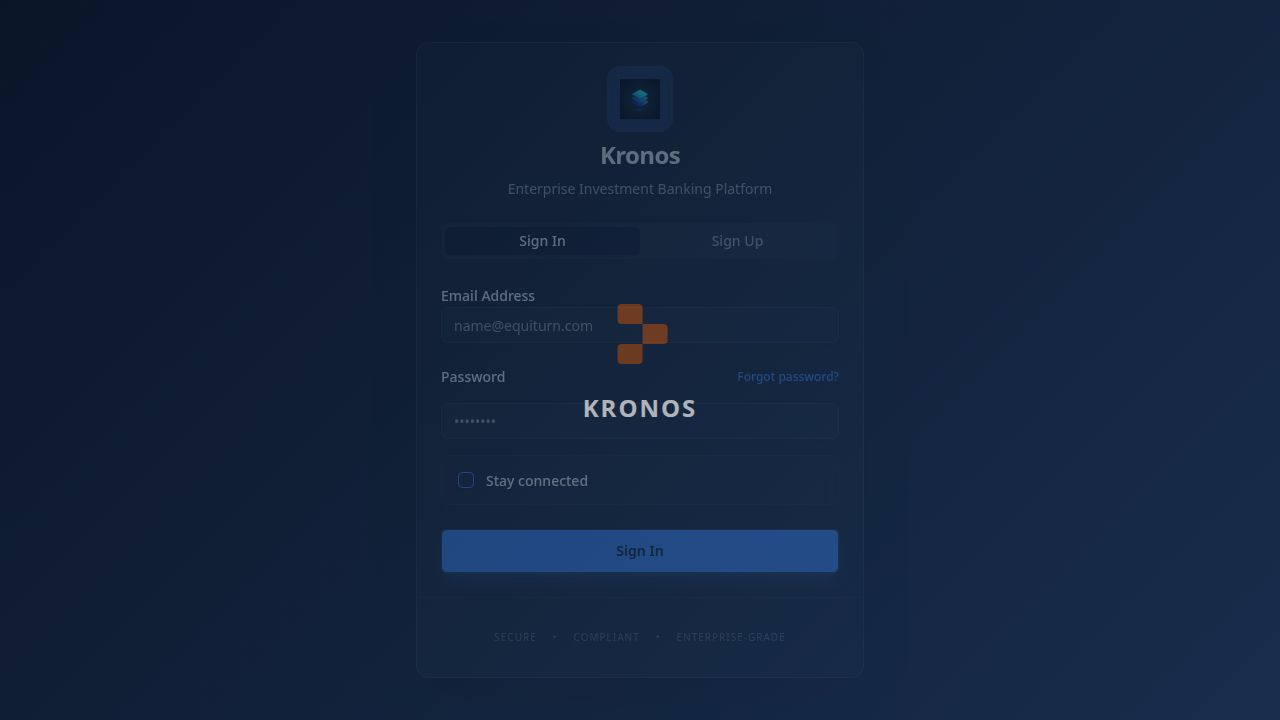
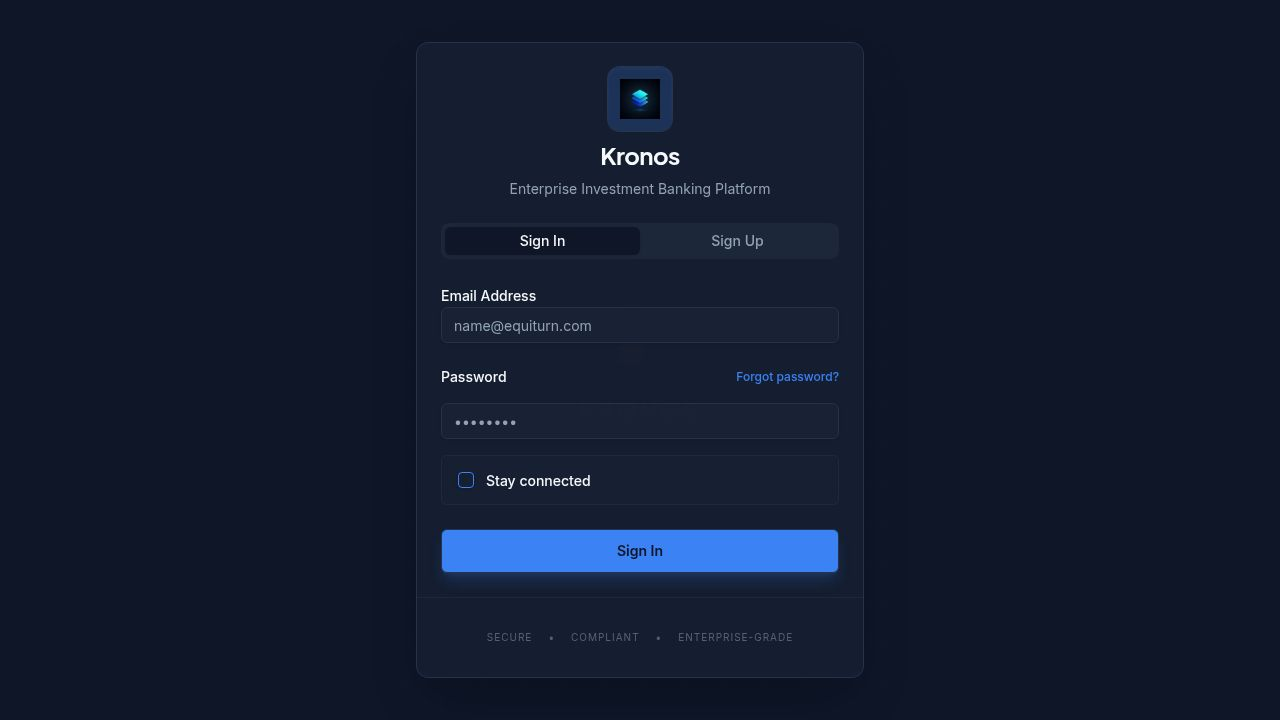
Add a theme switching option for dark mode to the application
Integrate a theme provider and add a toggle button to the sidebar in App.tsx and Sidebar.tsx respectively, allowing users to switch between light, dark, and system themes.

Replit-Commit-Author: Agent
Replit-Commit-Session-Id: 3507eb80-893f-4b0c-95a6-1adbbf56dc1c
Replit-Commit-Checkpoint-Type: intermediate_checkpoint
Replit-Commit-Event-Id: 861340b8-c447-4580-9229-e1a5269f6913
Replit-Commit-Screenshot-Url: https://storage.googleapis.com/screenshot-production-us-central1/f3894a26-1354-4d7a-8434-881391b1e385/3507eb80-893f-4b0c-95a6-1adbbf56dc1c/rlE2nbK

diff --git a/client/src/components/layout/Sidebar.tsx b/client/src/components/layout/Sidebar.tsx
@@ -26,8 +26,11 @@ import {
   ClipboardCheck,
   Brain,
   Clock,
-  Archive
+  Archive,
+  Moon,
+  Sun
 } from "lucide-react";
+import { useTheme } from "next-themes";
 import { cn } from "@/lib/utils";
 import { useUserPreferences, useSaveUserPreferences, useCurrentUser } from "@/lib/api";
 import { useDashboardContext } from "@/contexts/DashboardContext";
@@ -60,6 +63,7 @@ export function Sidebar({ role, collapsed = false, inMobileDrawer = false }: Sid
   const queryClient = useQueryClient();
   const { data: userPrefs, isLoading: prefsLoading } = useUserPreferences();
   const saveUserPrefs = useSaveUserPreferences();
+  const { setTheme, theme } = useTheme();
   
   // Expanded categories state - persist to user_preferences.settings.sidebarCategories
   const [expandedCategories, setExpandedCategories] = useState<Record<string, boolean>>({});
@@ -415,7 +419,28 @@ export function Sidebar({ role, collapsed = false, inMobileDrawer = false }: Sid
         })}
       </div>
 
-      <div className="p-4 border-t border-sidebar-border">
+      <div className="p-4 border-t border-sidebar-border space-y-3">
+        <button
+          onClick={() => {
+            if (theme === "light") setTheme("dark");
+            else if (theme === "dark") setTheme("system");
+            else setTheme("light");
+          }}
+          className={cn(
+            "flex items-center rounded-lg text-sm font-medium text-muted-foreground hover:text-foreground hover:bg-sidebar-accent cursor-pointer transition-all w-full",
+            showCollapsed ? "justify-center px-2 py-2.5" : "gap-3 px-3 py-2.5 text-left"
+          )}
+          data-testid="sidebar-theme-toggle"
+          title={showCollapsed ? (theme === "dark" ? "Dark Mode" : theme === "light" ? "Light Mode" : "System Theme") : undefined}
+        >
+          <div className="relative w-4 h-4">
+            <Sun className="w-4 h-4 absolute rotate-0 scale-100 transition-all dark:-rotate-90 dark:scale-0" />
+            <Moon className="w-4 h-4 absolute rotate-90 scale-0 transition-all dark:rotate-0 dark:scale-100" />
+          </div>
+          {!showCollapsed && (
+            <span>{theme === "dark" ? "Dark Mode" : theme === "light" ? "Light Mode" : "System Theme"}</span>
+          )}
+        </button>
         <button
           onClick={openAIAssistant}
           className={cn(

diff --git a/client/src/App.tsx b/client/src/App.tsx
@@ -3,6 +3,7 @@ import { queryClient } from "./lib/queryClient";
 import { QueryClientProvider } from "@tanstack/react-query";
 import { Toaster } from "@/components/ui/sonner";
 import { TooltipProvider } from "@/components/ui/tooltip";
+import { ThemeProvider } from "next-themes";
 import { useCurrentUser, onSessionExpired, useUserPreferences, useUpdateUserPreferences } from "@/lib/api";
 import ErrorBoundary from "@/components/ErrorBoundary";
 import { useEffect, lazy, Suspense, useCallback, useRef, useState } from "react";
@@ -397,18 +398,20 @@ function App() {
   return (
     <ErrorBoundary>
       <QueryClientProvider client={queryClient}>
-        <DashboardProvider>
-          <TooltipProvider>
-            <Toaster />
-            <WelcomeModalWrapper>
-              <Router />
-            </WelcomeModalWrapper>
-            <PWAInstallPrompt />
-            <MobileBottomNav />
-            <NotificationPermissionPrompt />
-            <PWAFeatures />
-          </TooltipProvider>
-        </DashboardProvider>
+        <ThemeProvider attribute="class" defaultTheme="system" enableSystem disableTransitionOnChange>
+          <DashboardProvider>
+            <TooltipProvider>
+              <Toaster />
+              <WelcomeModalWrapper>
+                <Router />
+              </WelcomeModalWrapper>
+              <PWAInstallPrompt />
+              <MobileBottomNav />
+              <NotificationPermissionPrompt />
+              <PWAFeatures />
+            </TooltipProvider>
+          </DashboardProvider>
+        </ThemeProvider>
       </QueryClientProvider>
     </ErrorBoundary>
   );
